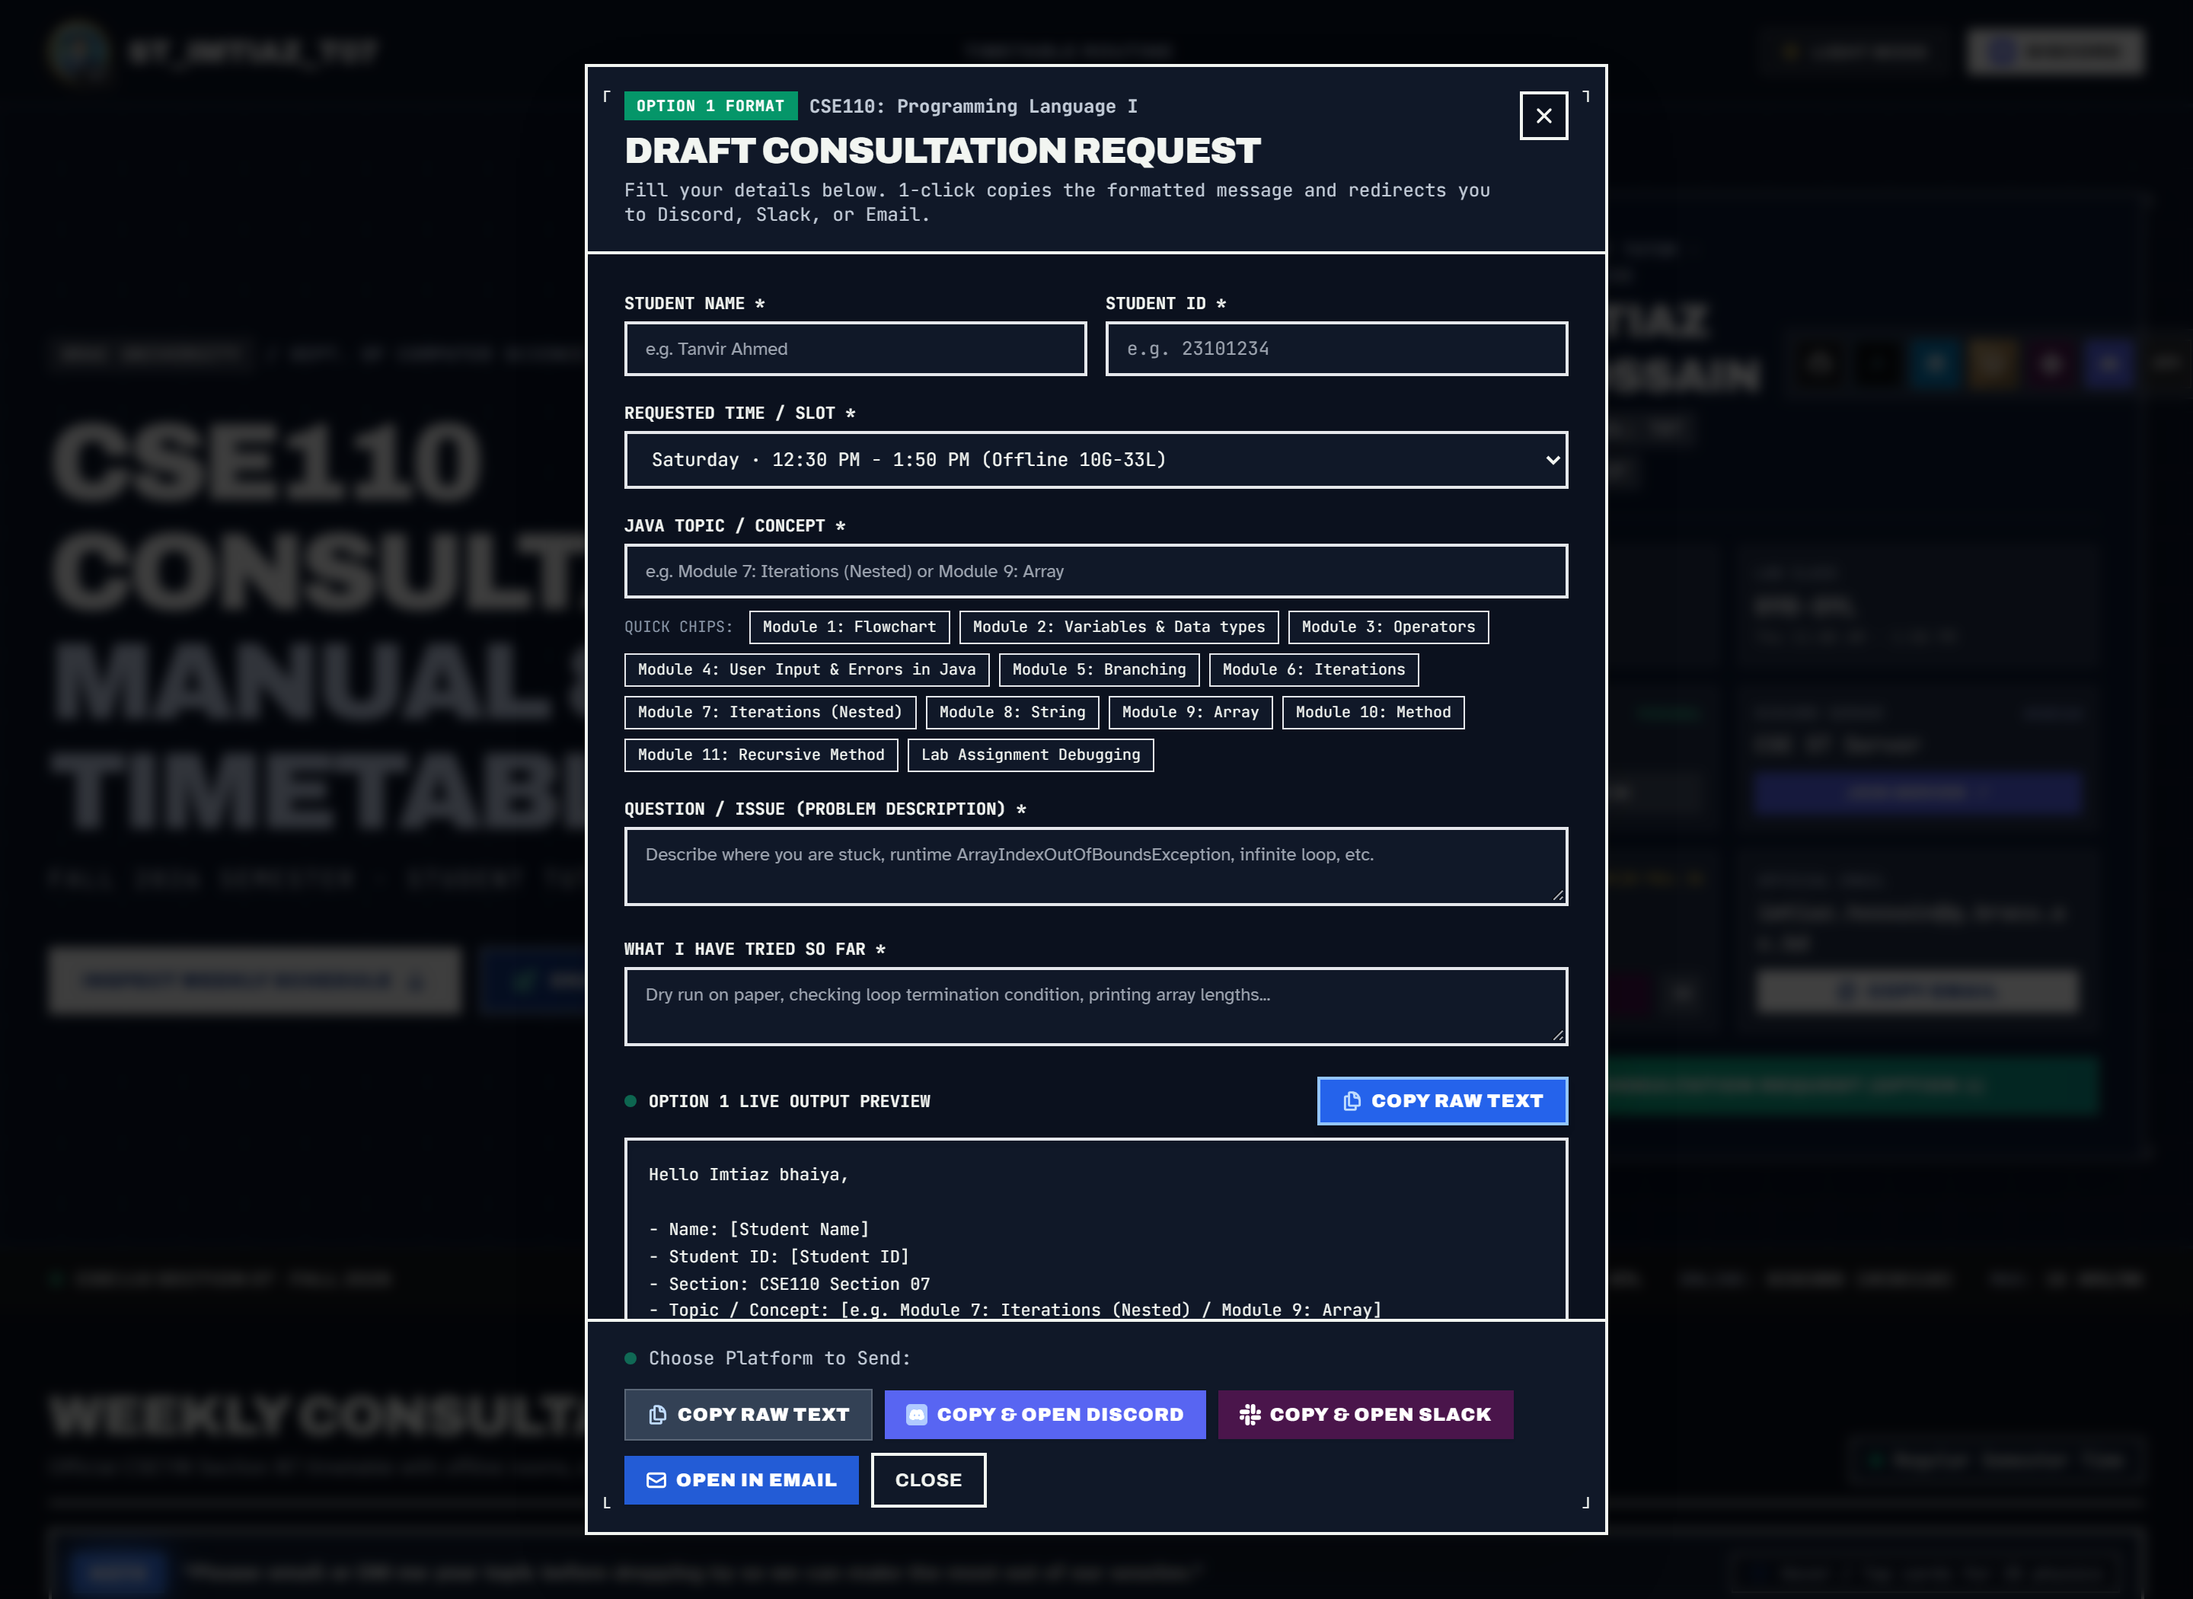
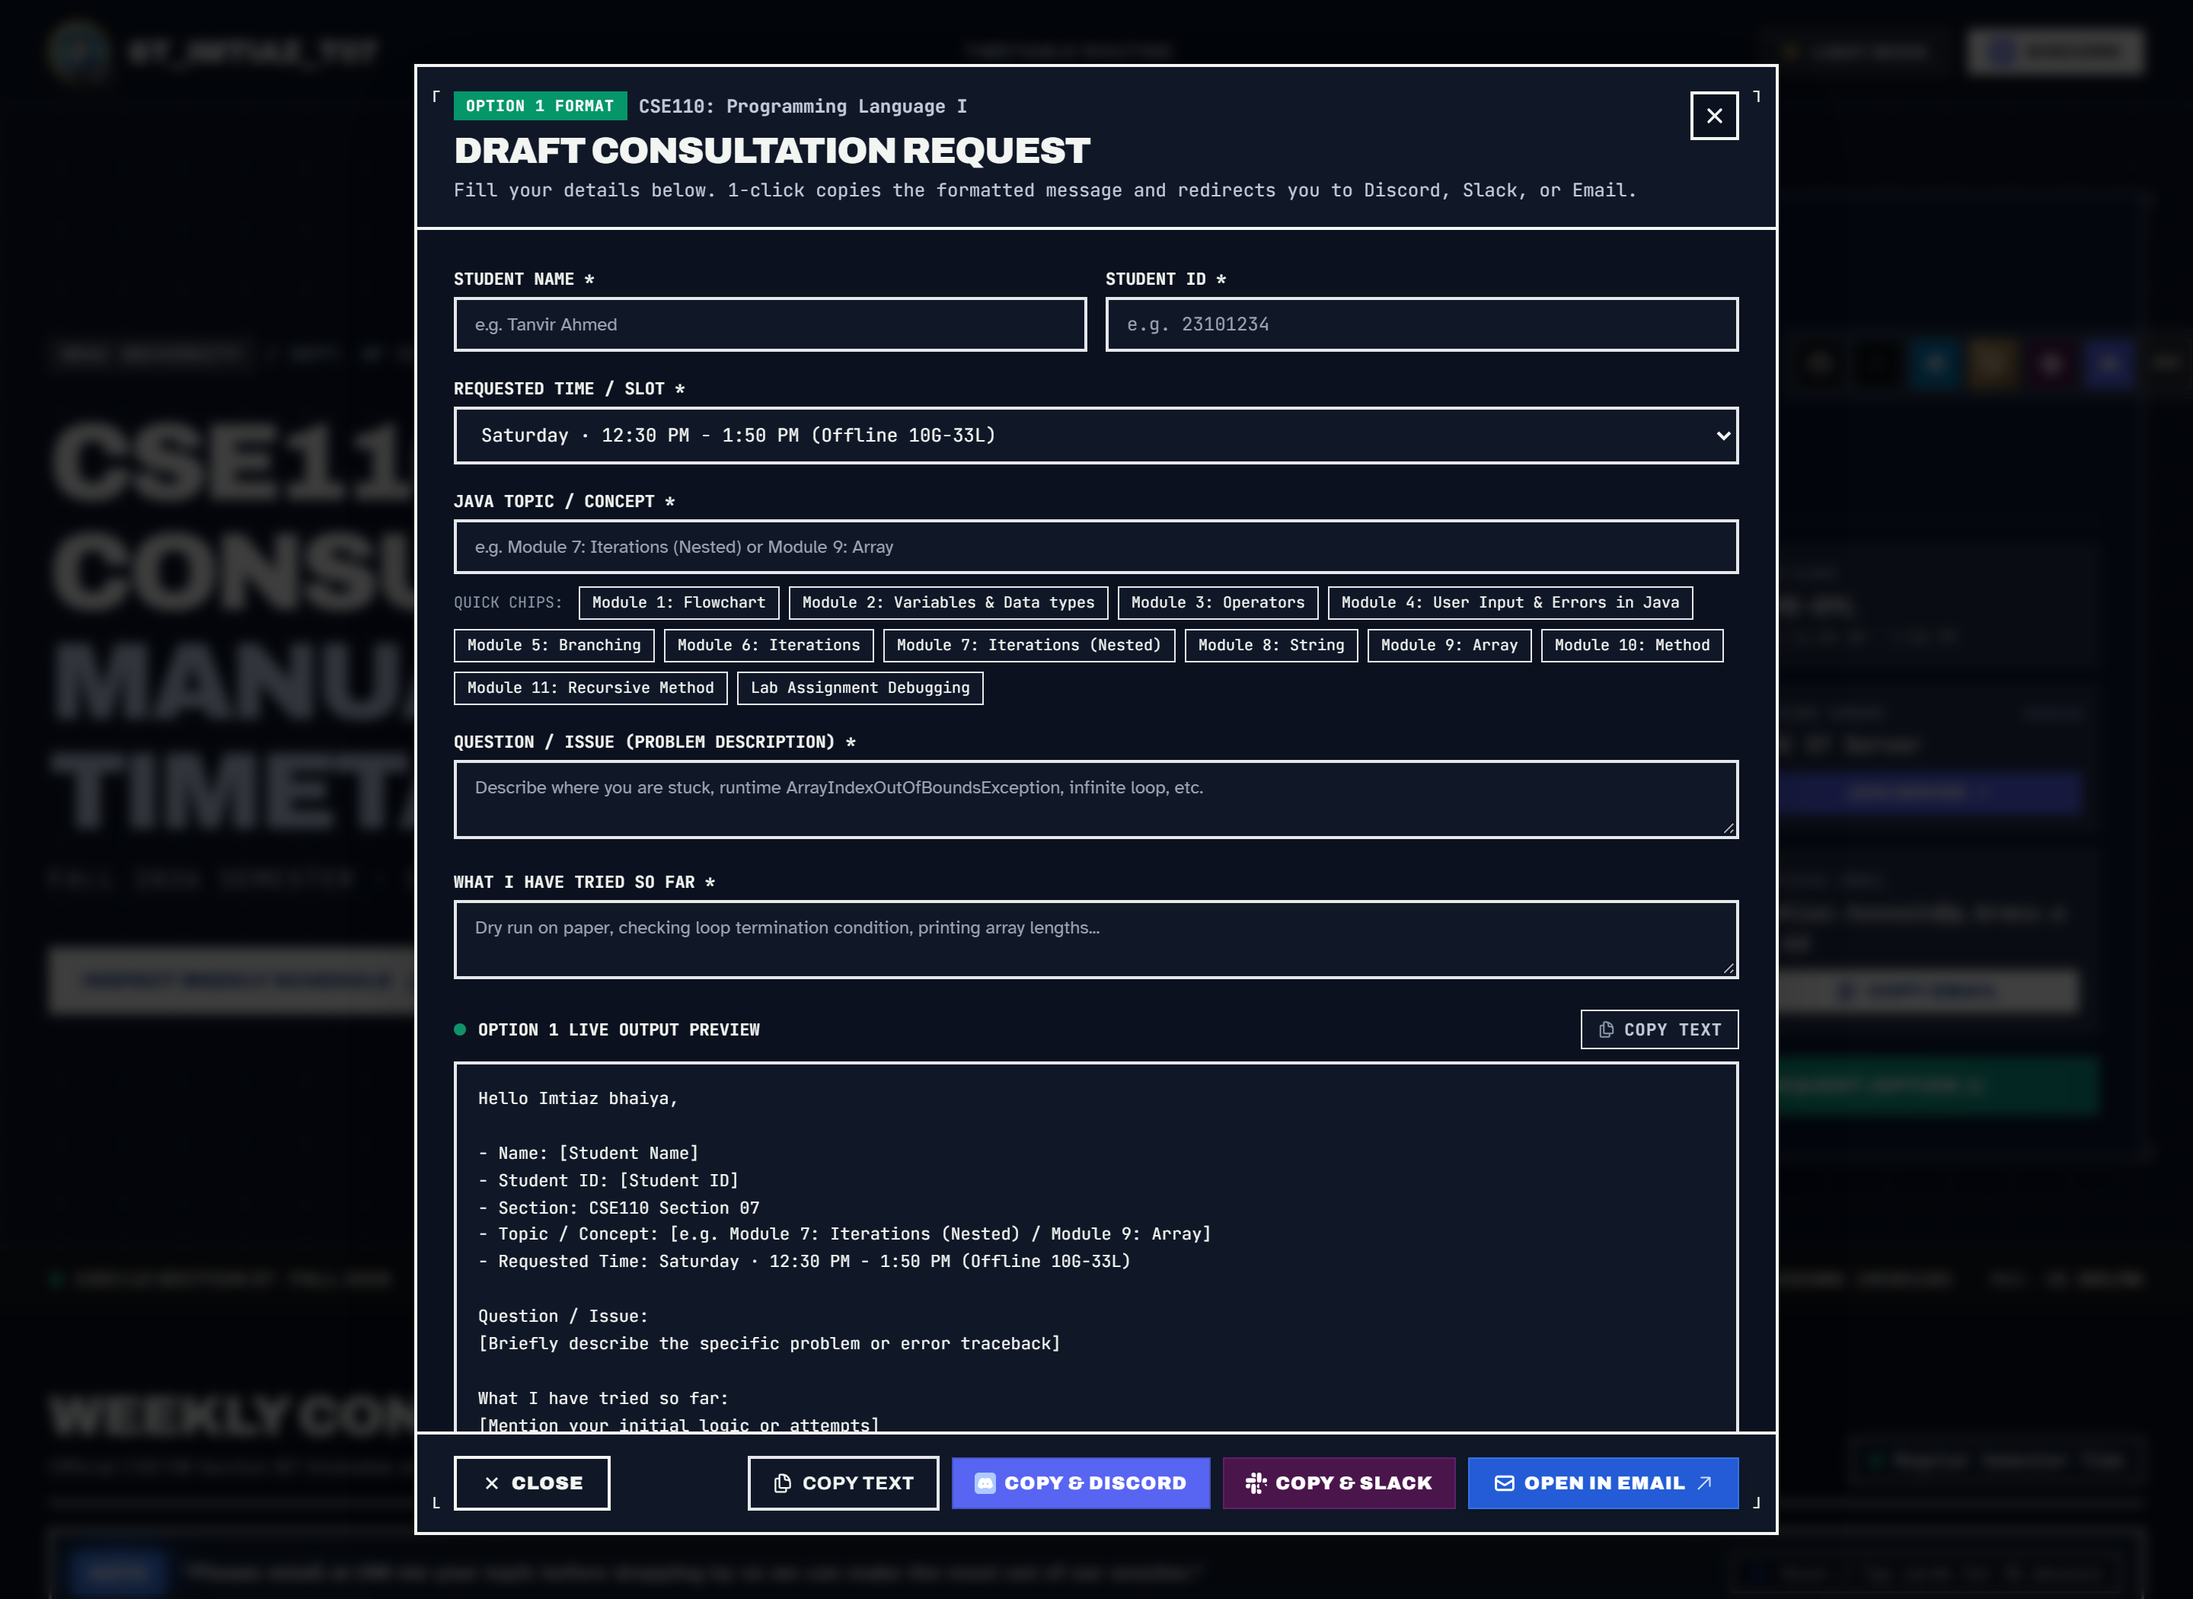
style: simplify preview copy button and reorder composer action bar (close left, email right)

Changed region(s): [[0.1875, 0.031, 0.8125, 0.9595], [0.6875, 0.031, 0.8125, 0.1548]]

diff --git a/src/App.tsx b/src/App.tsx
@@ -1446,7 +1446,7 @@ export default function App() {
               animate={{ opacity: 1, scale: 1, y: 0 }}
               exit={{ opacity: 0, scale: 0.92, y: 15 }}
               transition={{ type: 'spring', damping: 25, stiffness: 350 }}
-              className="relative w-full max-w-2xl bg-[var(--paper)] text-[var(--ink)] border-2 border-[var(--ink)] rounded-xs shadow-2xl overflow-hidden z-10 max-h-[92vh] flex flex-col my-auto"
+              className="relative w-full max-w-4xl bg-[var(--paper)] text-[var(--ink)] border-2 border-[var(--ink)] rounded-xs shadow-2xl overflow-hidden z-10 max-h-[92vh] flex flex-col my-auto"
             >
               {/* Corner Registration Ticks */}
               <span className="absolute top-2 left-2 text-[var(--ink)]/40 font-mono text-xs">┌</span>
@@ -1606,20 +1606,20 @@ export default function App() {
                     <button
                       type="button"
                       onClick={handleCopyOption1Text}
-                      className="inline-flex items-center gap-1.5 px-3.5 py-1.5 rounded-xs font-display font-black text-xs uppercase tracking-wider bg-[#1d49a7] hover:bg-[#163a86] dark:bg-blue-600 dark:hover:bg-blue-500 text-white border-2 border-[#163a86] dark:border-blue-300 shadow-md active:scale-95 transition-all cursor-pointer"
-                      title="Copy raw formatted template to clipboard"
+                      className="inline-flex items-center gap-1.5 px-2.5 py-1 rounded-xs font-mono text-[11px] font-bold uppercase tracking-wider text-[var(--ink-2)] hover:text-[var(--ink)] bg-[var(--paper-2)] hover:bg-[var(--ink)]/5 border border-[var(--ink)]/30 hover:border-[var(--ink)] transition-colors cursor-pointer"
+                      title="Copy raw formatted text"
                     >
                       {copiedRawText ? (
                         <>
-                          <span className="w-2 h-2 rounded-full bg-emerald-400 animate-ping" />
-                          <span className="text-emerald-200">COPIED TO CLIPBOARD!</span>
+                          <span className="w-1.5 h-1.5 rounded-full bg-emerald-500 animate-pulse" />
+                          <span className="text-emerald-600 dark:text-emerald-400 font-bold">COPIED!</span>
                         </>
                       ) : (
                         <>
-                          <svg className="w-3.5 h-3.5 text-blue-200" fill="none" viewBox="0 0 24 24" stroke="currentColor" strokeWidth={2.5}>
+                          <svg className="w-3 h-3 text-[var(--ink-3)]" fill="none" viewBox="0 0 24 24" stroke="currentColor" strokeWidth={2}>
                             <path strokeLinecap="round" strokeLinejoin="round" d="M15.75 17.25v3.375c0 .621-.504 1.125-1.125 1.125h-9.75a1.125 1.125 0 01-1.125-1.125V7.875c0-.621.504-1.125 1.125-1.125H6.75a9.06 9.06 0 011.5.124m7.5 10.376h3.375c.621 0 1.125-.504 1.125-1.125V11.25c0-4.46-3.243-8.161-7.5-8.876a9.06 9.06 0 00-1.5-.124H9.375c-.621 0-1.125.504-1.125 1.125v3.5m7.5 10.375H9.375a1.125 1.125 0 01-1.125-1.125v-9.25m12 6.625v-1.875a3.375 3.375 0 00-3.375-3.375h-1.5a1.125 1.125 0 01-1.125-1.125v-1.5a3.375 3.375 0 00-3.375-3.375H9.75" />
                           </svg>
-                          <span>COPY RAW TEXT</span>
+                          <span>Copy text</span>
                         </>
                       )}
                     </button>
@@ -1631,66 +1631,70 @@ export default function App() {
               </div>
 
               {/* Action Buttons Row */}
-              <div className="p-4 sm:px-6 border-t-2 border-[var(--ink)] bg-[var(--paper-2)] flex flex-wrap items-center justify-between gap-3 shrink-0">
-                <div className="flex items-center gap-2 text-xs font-mono text-[var(--ink-2)]">
-                  <span className="w-2 h-2 rounded-full bg-emerald-500 animate-pulse" />
-                  <span>Choose Platform to Send:</span>
-                </div>
+              <div className="p-3.5 sm:px-6 border-t-2 border-[var(--ink)] bg-[var(--paper-2)] flex items-center justify-between gap-2 sm:gap-3 shrink-0">
+                {/* Most Left: Close Button */}
+                <button
+                  type="button"
+                  onClick={() => setIsComposerOpen(false)}
+                  className="px-4 py-2 bg-[var(--paper-2)] hover:bg-[var(--ink)] text-[var(--ink)] hover:text-[var(--paper)] border-2 border-[var(--ink)] text-xs font-display font-black uppercase tracking-wider rounded-xs transition-all inline-flex items-center gap-1.5 shadow-xs active:scale-95 cursor-pointer"
+                >
+                  <svg className="w-3.5 h-3.5" viewBox="0 0 24 24" fill="none" stroke="currentColor" strokeWidth={2.5}>
+                    <line x1="18" y1="6" x2="6" y2="18" />
+                    <line x1="6" y1="6" x2="18" y2="18" />
+                  </svg>
+                  <span>Close</span>
+                </button>
 
-                <div className="flex flex-wrap items-center gap-2">
-                  {/* Copy Raw Text (Bottom Action Bar) */}
+                {/* Right Cluster: Copy Text, Discord, Slack, and Email on Most Right */}
+                <div className="flex flex-wrap sm:flex-nowrap items-center justify-end gap-2">
+                  {/* Copy Raw Text */}
                   <button
                     type="button"
                     onClick={handleCopyOption1Text}
-                    className="px-3.5 py-2 bg-[#163a86] hover:bg-[#122e6b] dark:bg-slate-700 dark:hover:bg-slate-600 text-white text-xs font-display font-black uppercase tracking-wider rounded-xs transition-all inline-flex items-center gap-1.5 shadow-sm active:scale-95 cursor-pointer border border-white/20"
+                    className="px-3.5 py-2 bg-[var(--paper-2)] hover:bg-[var(--ink)] text-[var(--ink)] hover:text-[var(--paper)] border-2 border-[var(--ink)]/60 hover:border-[var(--ink)] text-xs font-display font-bold uppercase tracking-wider rounded-xs transition-all inline-flex items-center gap-1.5 active:scale-95 cursor-pointer"
+                    title="Copy formatted consultation request text"
                   >
-                    <svg className="w-3.5 h-3.5 text-blue-200" fill="none" viewBox="0 0 24 24" stroke="currentColor" strokeWidth={2.5}>
+                    <svg className="w-3.5 h-3.5" fill="none" viewBox="0 0 24 24" stroke="currentColor" strokeWidth={2}>
                       <path strokeLinecap="round" strokeLinejoin="round" d="M15.75 17.25v3.375c0 .621-.504 1.125-1.125 1.125h-9.75a1.125 1.125 0 01-1.125-1.125V7.875c0-.621.504-1.125 1.125-1.125H6.75a9.06 9.06 0 011.5.124m7.5 10.376h3.375c.621 0 1.125-.504 1.125-1.125V11.25c0-4.46-3.243-8.161-7.5-8.876a9.06 9.06 0 00-1.5-.124H9.375c-.621 0-1.125.504-1.125 1.125v3.5m7.5 10.375H9.375a1.125 1.125 0 01-1.125-1.125v-9.25m12 6.625v-1.875a3.375 3.375 0 00-3.375-3.375h-1.5a1.125 1.125 0 01-1.125-1.125v-1.5a3.375 3.375 0 00-3.375-3.375H9.75" />
                     </svg>
-                    <span>{copiedRawText ? 'Copied Raw Text!' : 'Copy Raw Text'}</span>
+                    <span>{copiedRawText ? 'Copied!' : 'Copy Text'}</span>
                   </button>
 
                   {/* Send via Discord */}
                   <button
                     type="button"
                     onClick={handleSendDiscord}
-                    className="px-3.5 py-2 bg-[#5865F2] hover:bg-[#4752c4] text-white text-xs font-display font-black uppercase tracking-wider rounded-xs transition-all inline-flex items-center gap-1.5 shadow-sm active:scale-95 cursor-pointer"
+                    className="px-3.5 py-2 bg-[#5865F2] hover:bg-[#4752c4] text-white text-xs font-display font-black uppercase tracking-wider rounded-xs transition-all inline-flex items-center gap-1.5 shadow-sm active:scale-95 cursor-pointer border border-[#4752c4]"
                   >
                     <img src={DISCORD_LOGO} alt="Discord" className="w-3.5 h-3.5 object-contain brightness-200" />
-                    <span>Copy &amp; Open Discord</span>
+                    <span>Copy &amp; Discord</span>
                   </button>
 
                   {/* Send via Slack */}
                   <button
                     type="button"
                     onClick={handleSendSlack}
-                    className="px-3.5 py-2 bg-[#4A154B] hover:bg-[#611f69] text-white text-xs font-display font-black uppercase tracking-wider rounded-xs transition-all inline-flex items-center gap-1.5 shadow-sm active:scale-95 cursor-pointer"
+                    className="px-3.5 py-2 bg-[#4A154B] hover:bg-[#611f69] text-white text-xs font-display font-black uppercase tracking-wider rounded-xs transition-all inline-flex items-center gap-1.5 shadow-sm active:scale-95 cursor-pointer border border-[#611f69]"
                   >
                     <svg className="w-3.5 h-3.5" viewBox="0 0 24 24" fill="currentColor">
-                      <path d="M5.042 15.165a2.528 2.528 0 0 1-2.52 2.523A2.528 2.528 0 0 1 0 15.165a2.527 2.527 0 0 1 2.522-2.52h2.52v2.52zM6.313 15.165a2.527 2.527 0 0 1 2.521-2.52 2.527 2.527 0 0 1 2.521 2.52v6.313A2.528 2.528 0 0 1 8.834 24a2.528 2.528 0 0 1-2.521-2.522v-6.313zM8.834 5.042a2.528 2.528 0 0 1-2.521-2.52A2.528 2.528 0 0 1 8.834 0a2.528 2.528 0 0 1 2.521 2.522v2.52H8.834zM8.834 6.313a2.528 2.528 0 0 1 2.521 2.521 2.528 2.528 0 0 1-2.521 2.521H2.522A2.528 2.528 0 0 1 0 8.834a2.528 2.528 0 0 1 2.522-2.521h6.312zM18.956 8.834a2.528 2.528 0 0 1 2.522-2.521A2.528 2.528 0 0 1 24 8.834a2.528 2.528 0 0 1-2.522 2.521h-2.522V8.834zM17.688 8.834a2.528 2.528 0 0 1-2.523 2.521 2.527 2.527 0 0 1-2.52-2.521V2.522A2.527 2.527 0 0 1 15.165 0a2.528 2.528 0 0 1 2.523 2.522v6.312zM15.165 18.956a2.528 2.528 0 0 1 2.523 2.522A2.528 2.528 0 0 1 15.165 24a2.527 2.527 0 0 1-2.52-2.522v-2.522h2.52zM15.165 17.688a2.527 2.527 0 0 1-2.52-2.523 2.526 2.526 0 0 1 2.52-2.52h6.313A2.527 2.527 0 0 1 24 15.165a2.528 2.528 0 0 1-2.522 2.523h-6.313z"/>
+                      <path d="M5.042 15.165a2.528 2.528 0 0 1-2.52 2.523A2.528 2.528 0 0 1 0 15.165a2.527 2.527 0 0 1 2.522-2.52h2.52v2.52zM6.313 15.165a2.527 2.527 0 0 1 2.521-2.52 2.527 2.527 0 0 1 2.521 2.52v6.313A2.528 2.528 0 0 1 8.834 24a2.528 2.528 0 0 1-2.521-2.522v-6.313zM8.834 5.042a2.528 2.528 0 0 1-2.521-2.52A2.528 2.528 0 0 1 8.834 0a2.528 2.528 0 0 1 2.521 2.522v2.52H8.834zM8.834 6.313a2.528 2.528 0 0 1 2.521 2.521 2.528 2.528 0 0 1-2.521 2.521H2.522A2.528 2.528 0 0 1 0 8.834a2.528 2.528 0 0 1 2.522-2.521h6.312zM18.956 8.834a2.528 2.528 0 0 1 2.522-2.521A2.528 2.528 0 0 1 24 8.834a2.528 2.528 0 0 1-2.522 2.521h-2.522V8.834zM17.688 8.834a2.528 2.528 0 0 1-2.523 2.521 2.527 2.527 0 0 1-2.52-2.521V2.522A2.527 2.527 0 0 1 15.165 0a2.528 2.528 0 0 1 2.523 2.522v6.312zM15.165 18.956a2.528 2.528 0 0 1 2.523 2.522A2.528 2.528 0 0 1 15.165 24a2.527 2.527 0 0 1-2.52-2.522v-2.522h2.52zM15.165 17.688a2.527 2.527 0 0 1-2.52-2.523 2.526 2.526 0 0 1 2.52-2.52h6.313A2.527 2.527 0 0 1 24 15.165a2.528 2.528 0 0 1-2.52-2.523h-6.313z"/>
                     </svg>
-                    <span>Copy &amp; Open Slack</span>
+                    <span>Copy &amp; Slack</span>
                   </button>
 
-                  {/* Send via Email */}
+                  {/* Send via Email - Most Right Side */}
                   <button
                     type="button"
                     onClick={handleSendEmail}
-                    className="px-3.5 py-2 bg-[var(--blue)] hover:bg-[var(--blue-deep)] text-white text-xs font-display font-black uppercase tracking-wider rounded-xs transition-all inline-flex items-center gap-1.5 shadow-sm active:scale-95 cursor-pointer"
+                    className="px-4 py-2 bg-[var(--blue)] hover:bg-[var(--blue-deep)] text-white text-xs font-display font-black uppercase tracking-wider rounded-xs transition-all inline-flex items-center gap-1.5 shadow-md active:scale-95 cursor-pointer border border-blue-400/30"
                   >
                     <svg className="w-3.5 h-3.5" fill="none" viewBox="0 0 24 24" stroke="currentColor" strokeWidth={2.5}>
                       <path strokeLinecap="round" strokeLinejoin="round" d="M21.75 6.75v10.5a2.25 2.25 0 01-2.25 2.25h-15a2.25 2.25 0 01-2.25-2.25V6.75m19.5 0A2.25 2.25 0 0019.5 4.5h-15a2.25 2.25 0 00-2.25 2.25m19.5 0v.243a2.25 2.25 0 01-1.07 1.916l-7.5 4.615a2.25 2.25 0 01-2.36 0L3.32 8.91a2.25 2.25 0 01-1.07-1.916V6.75" />
                     </svg>
                     <span>Open in Email</span>
-                  </button>
-
-                  {/* Close */}
-                  <button
-                    type="button"
-                    onClick={() => setIsComposerOpen(false)}
-                    className="px-3.5 py-2 bg-[var(--paper-2)] border-2 border-[var(--ink)] text-[var(--ink)] hover:bg-[var(--ink)] hover:text-[var(--paper)] text-xs font-display font-bold uppercase tracking-wider rounded-xs transition-colors cursor-pointer"
-                  >
-                    Close
+                    <svg className="w-3 h-3 opacity-80" fill="none" viewBox="0 0 24 24" stroke="currentColor" strokeWidth={2}>
+                      <path strokeLinecap="round" strokeLinejoin="round" d="M4.5 19.5l15-15m0 0H8.25m11.25 0v11.25" />
+                    </svg>
                   </button>
                 </div>
               </div>
